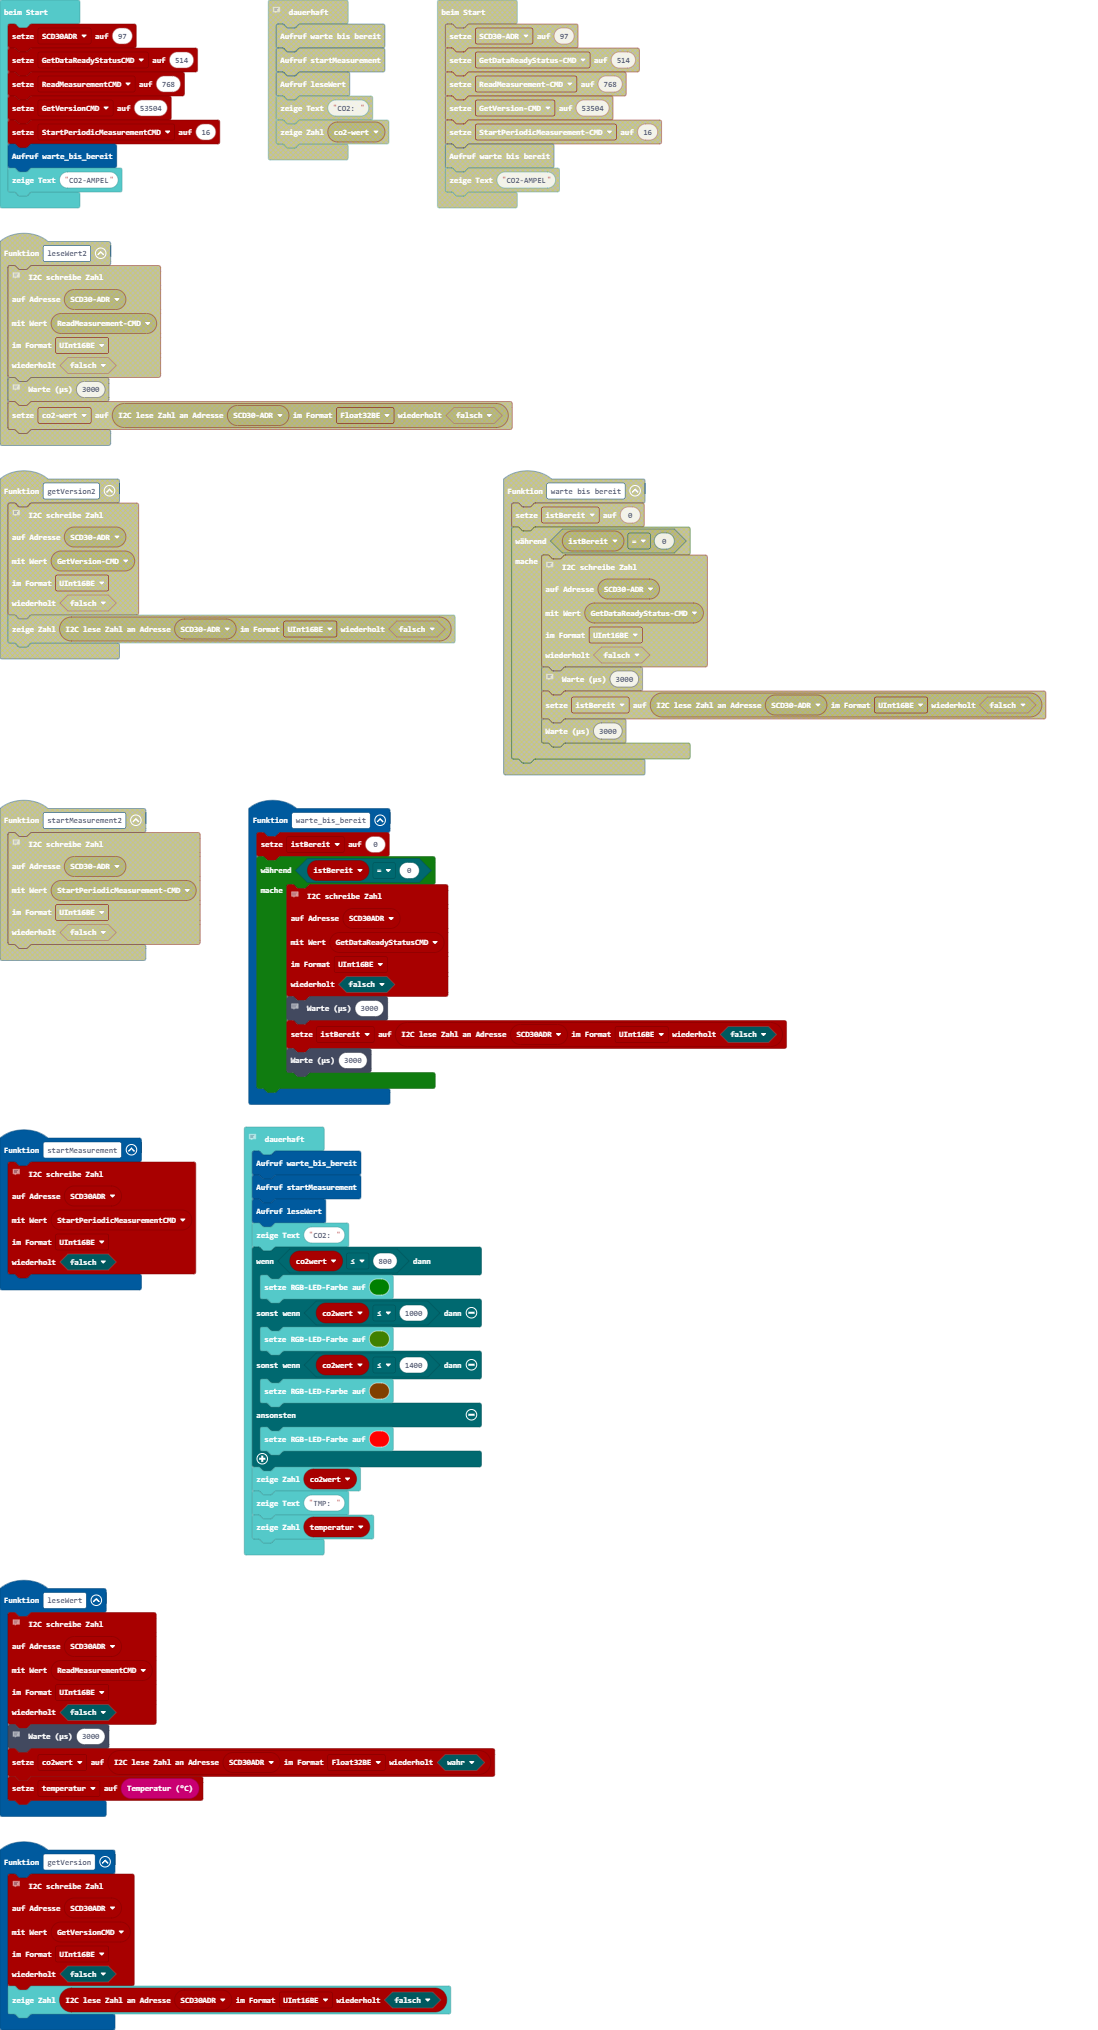
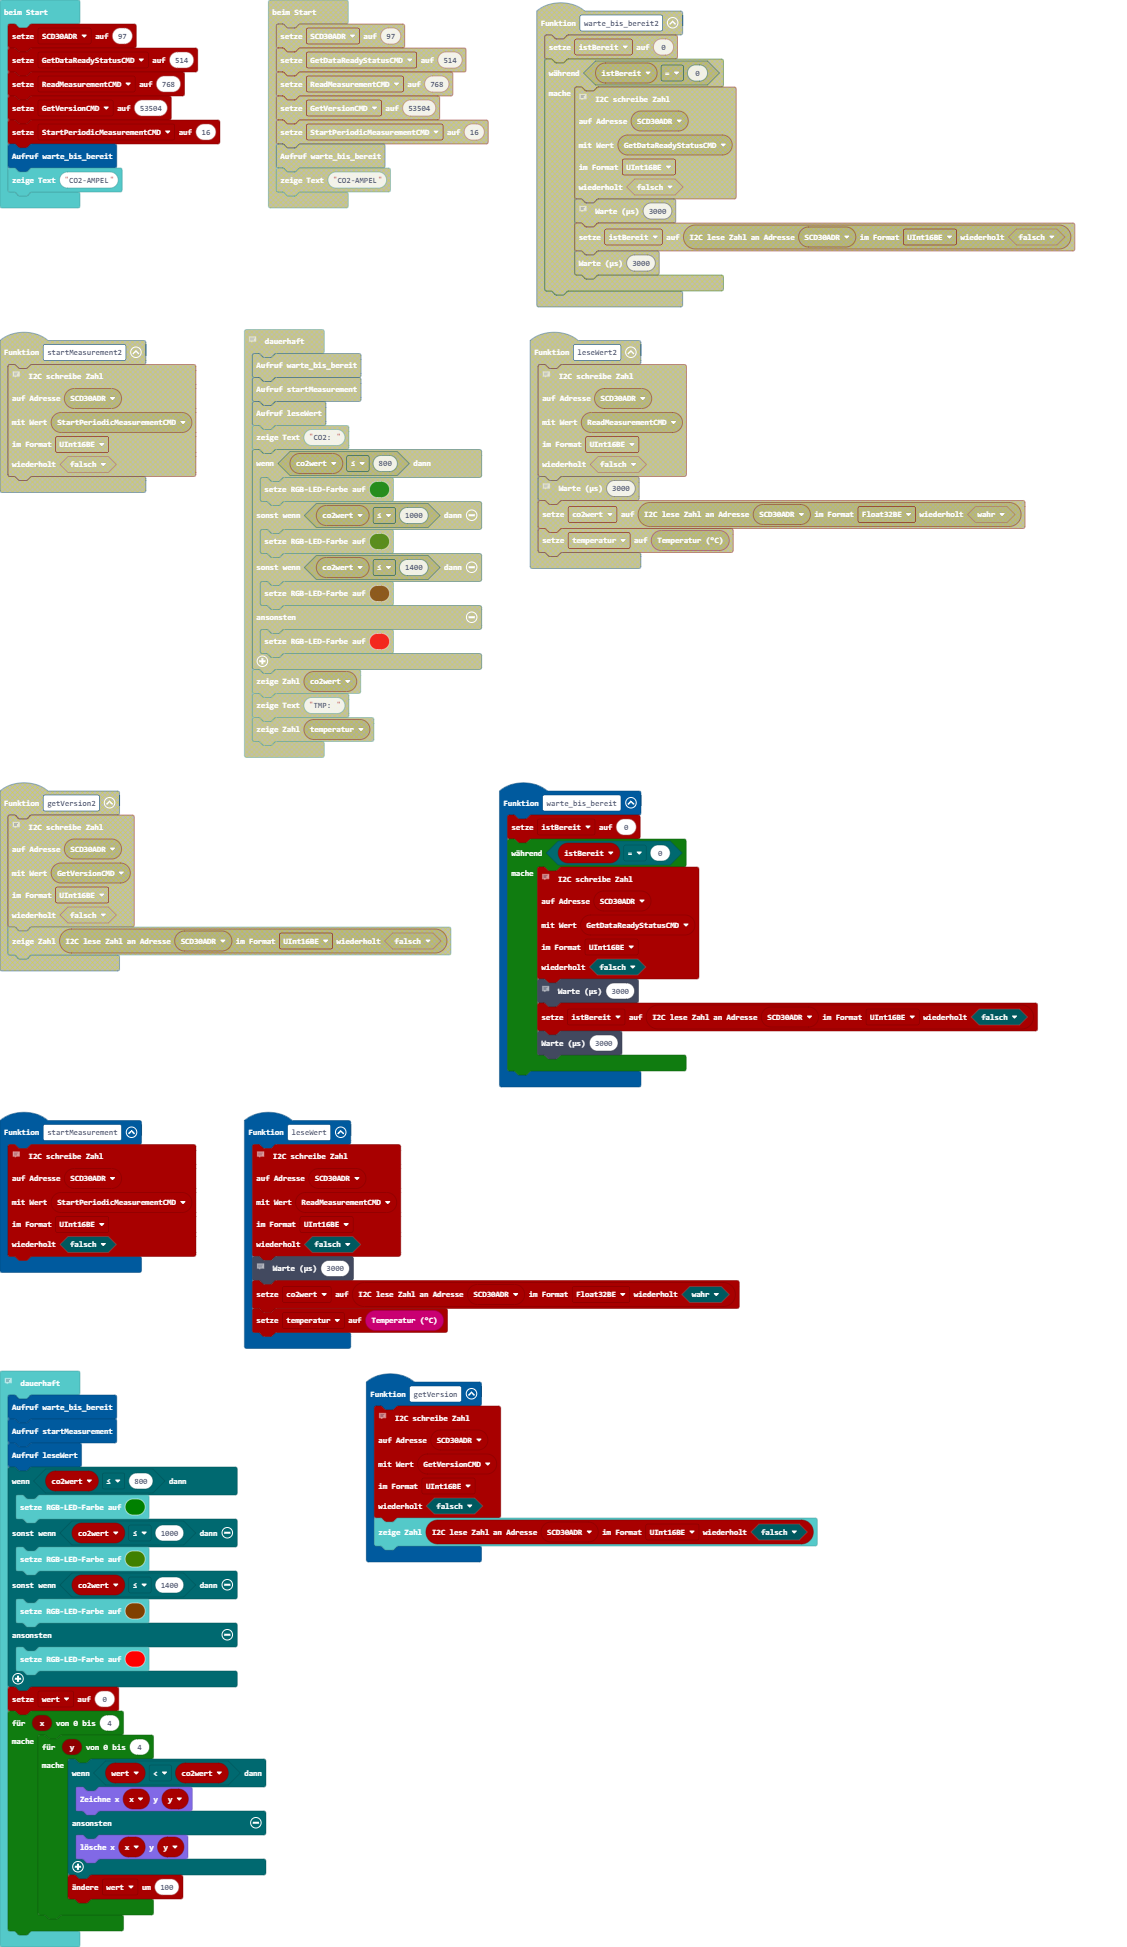
Darstellung auf "statische" LEDs umgestellt

diff --git a/main.ts b/main.ts
@@ -46,6 +46,7 @@ function getVersion () {
     )
     basic.showNumber(pins.i2cReadNumber(SCD30ADR, NumberFormat.UInt16BE, false))
 }
+let wert = 0
 let temperatur = 0
 let co2wert = 0
 let istBereit = 0
@@ -69,7 +70,6 @@ basic.forever(function () {
     warte_bis_bereit()
     startMeasurement()
     leseWert()
-    basic.showString("CO2: ")
     if (co2wert <= 800) {
         basic.setLedColor(0x008000)
     } else if (co2wert <= 1000) {
@@ -79,7 +79,15 @@ basic.forever(function () {
     } else {
         basic.setLedColor(0xff0000)
     }
-    basic.showNumber(co2wert)
-    basic.showString("TMP: ")
-    basic.showNumber(temperatur)
+    wert = 0
+    for (let x = 0; x <= 4; x++) {
+        for (let y = 0; y <= 4; y++) {
+            if (wert < co2wert) {
+                led.plot(x, y)
+            } else {
+                led.unplot(x, y)
+            }
+            wert += 100
+        }
+    }
 })
